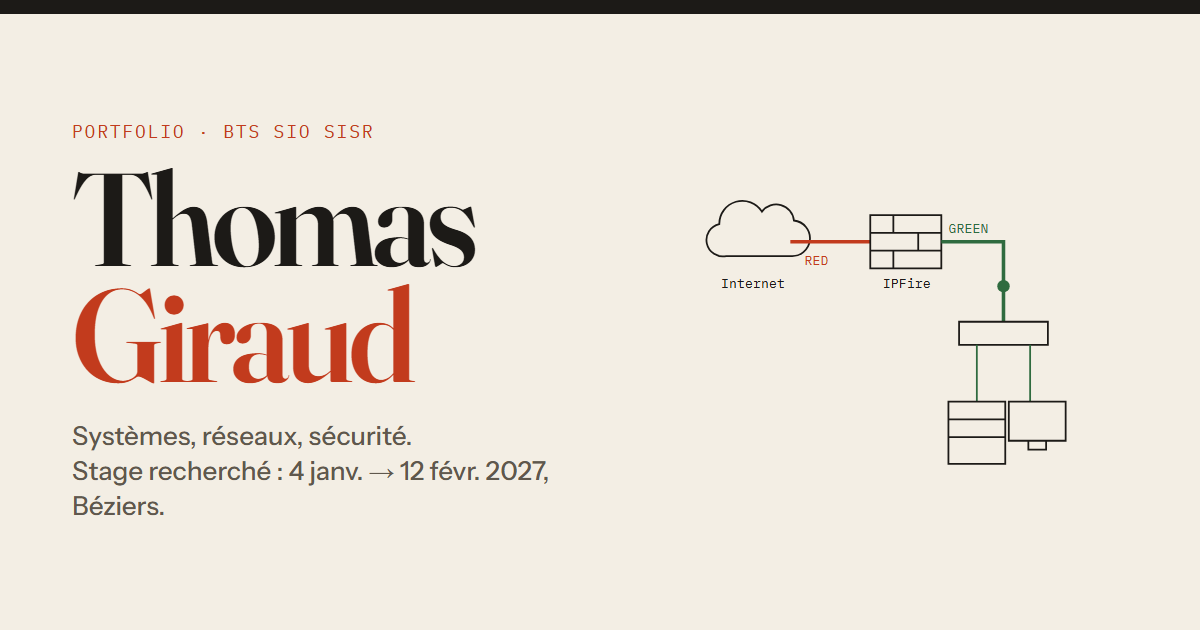
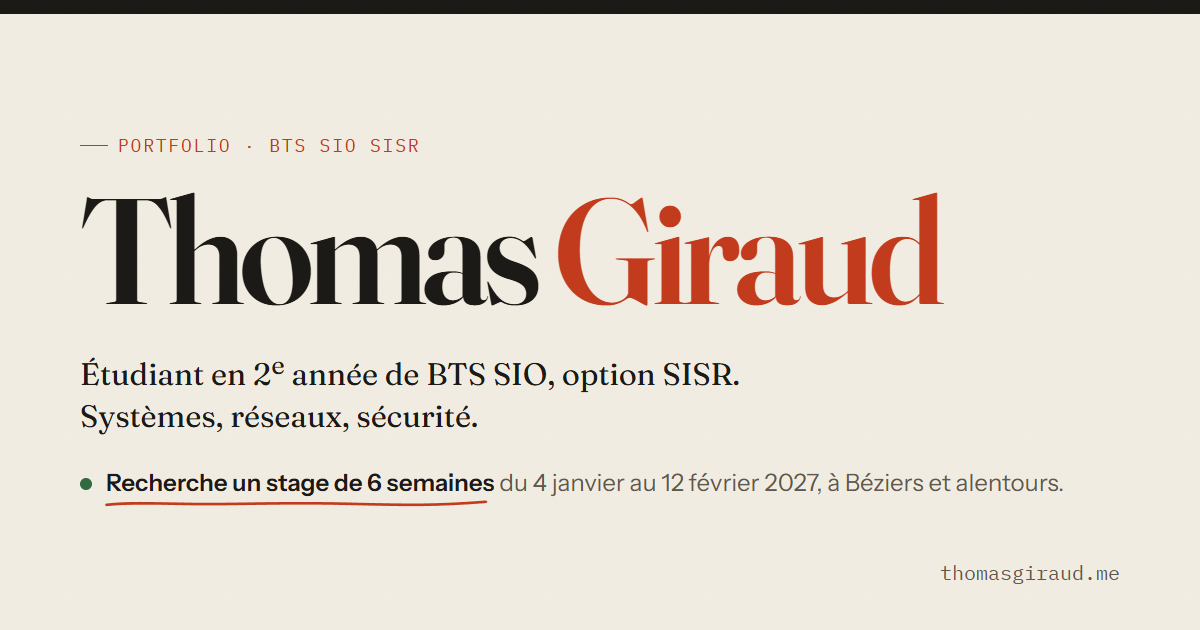
Nouvelle image de partage de l'accueil, doublon du CV retiré
- assets/og-image.png : nom, présentation et « Recherche un stage »,
  sans le schéma IPFire (fabriquée par _outils/og-images.mjs)
- CV/cv.pdf supprimé : seul CV/CV-Thomas-Giraud-BTS-SIO-SISR.pdf reste

diff --git a/README.md b/README.md
@@ -33,9 +33,9 @@ js/modules/                Un fichier par fonction, chacun avec une fonction ini
 assets/                    Favicon, icônes, image de partage (og-image.png)
 assets/og/                 Image de partage de chaque fiche (fabriquées par _outils/og-images.mjs)
 assets/fonts/              Polices hébergées localement (Fraunces, Instrument Sans, IBM Plex Mono, licence SIL OFL)
-CV/                        CV téléchargeable (CV-Thomas-Giraud-BTS-SIO-SISR.pdf ; cv.pdf = même fichier, pour les anciens liens)
+CV/                        CV téléchargeable (CV-Thomas-Giraud-BTS-SIO-SISR.pdf)
 build.js                   Préparation avant mise en ligne (voir plus bas)
-_outils/og-images.mjs      Fabrique les images de partage des fiches
+_outils/og-images.mjs      Fabrique les images de partage (accueil et fiches)
 ```
 
 Les dossiers qui commencent par `_` ne sont pas publiés par GitHub Pages.
@@ -81,7 +81,7 @@ Le script :
 3. met à jour la Content-Security-Policy ;
 4. régénère `sitemap.xml`.
 
-Quand tu changes le titre ou le schéma d'une fiche, refais aussi son image de partage (serveur local lancé) :
+Quand tu changes le titre ou le schéma d'une fiche, ou le texte de l'accueil, refais aussi les images de partage (serveur local lancé) :
 
 ```bash
 node _outils/og-images.mjs
